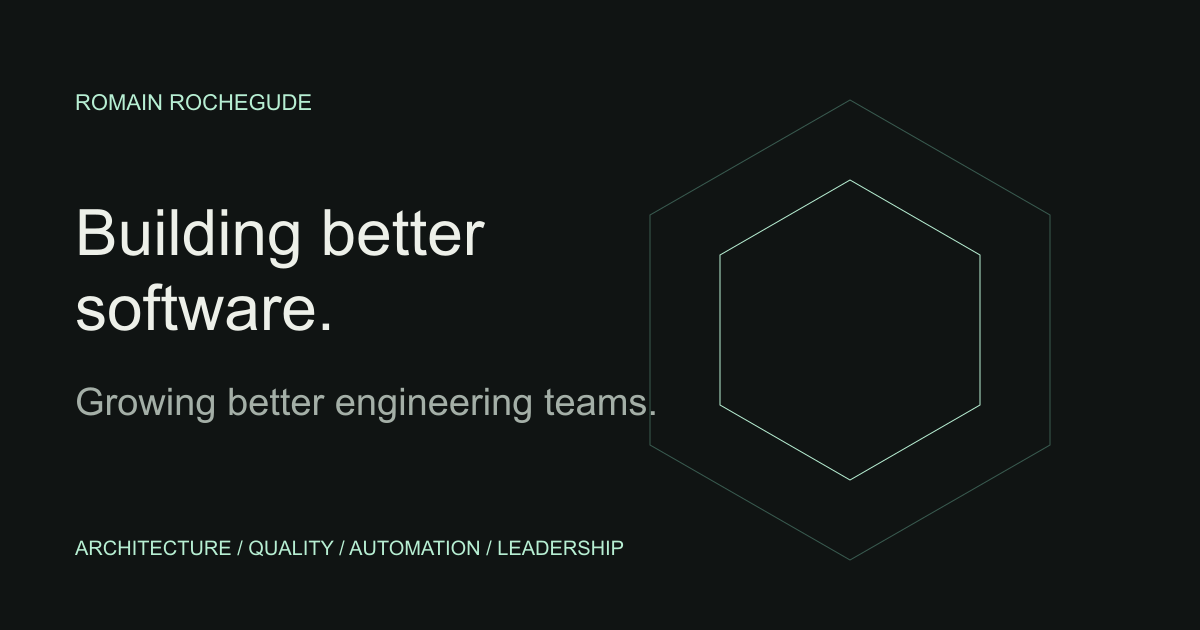
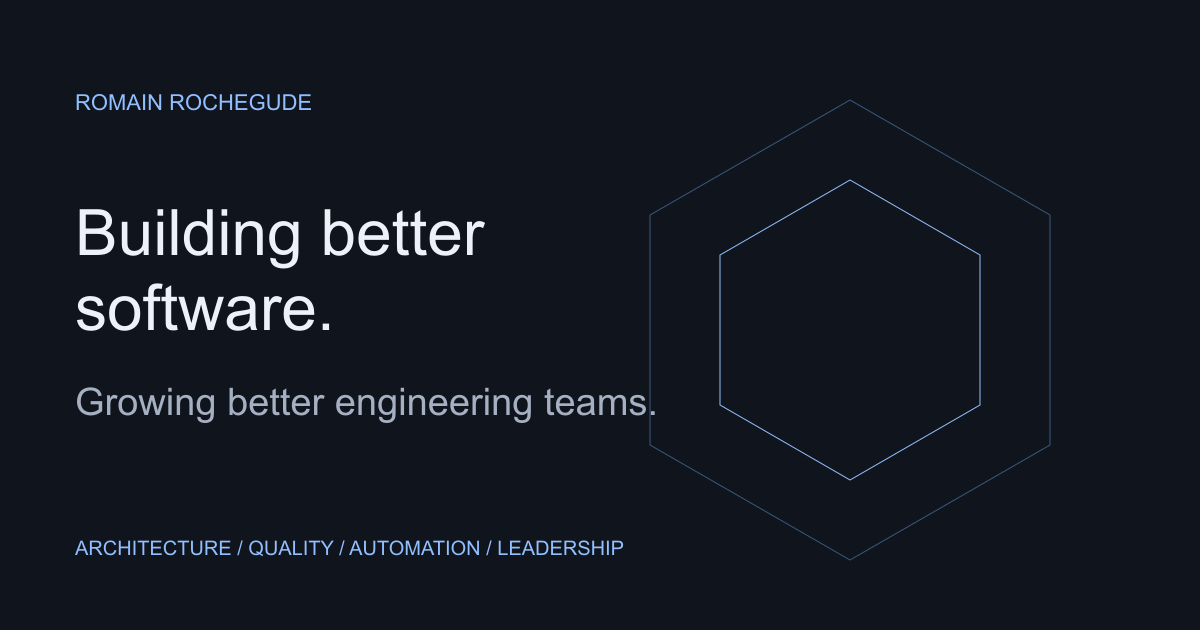
:lipstick: change colors to blue

diff --git a/src/styles/global.css b/src/styles/global.css
@@ -1,11 +1,11 @@
 :root {
   color-scheme: dark;
-  --bg: #101413;
-  --panel: #171d1a;
-  --text: #edf0e9;
-  --muted: #a4afa7;
-  --accent: #b7efd3;
-  --line: #303a34;
+  --bg: #10141c;
+  --panel: #171e2a;
+  --text: #edf2fa;
+  --muted: #a5b0c2;
+  --accent: #91bfff;
+  --line: #2d3a50;
   font-family: 'Roboto Variable', Roboto, Arial, sans-serif;
   font-synthesis: none;
   text-rendering: optimizeLegibility;
@@ -82,7 +82,7 @@ h3 {
   color: var(--accent);
 }
 .muted-heading {
-  color: #a4afa7;
+  color: #a5b0c2;
 }
 .eyebrow {
   font-size: 0.69rem;
@@ -112,7 +112,7 @@ h3 {
 .monogram {
   font-size: 2.5rem;
   font-weight: 400;
-  border: 1px solid #53675b;
+  border: 1px solid #526b91;
   width: 50px;
   height: 50px;
   display: flex;
@@ -127,7 +127,7 @@ h3 {
   display: flex;
   gap: 28px;
   font-size: 0.78rem;
-  color: #bec6bf;
+  color: #bdc9dc;
 }
 .site-header nav a {
   padding: 12px 0;
@@ -185,15 +185,15 @@ h3 {
   display: inline-flex;
   gap: 36px;
   background: var(--accent);
-  color: #14251d;
+  color: #10233e;
   padding: 14px 21px;
   font-size: 0.8rem;
   font-weight: 600;
   border: 1px solid var(--accent);
 }
 .button:hover {
-  background: #d2ffe6;
-  color: #14251d;
+  background: #bfd9ff;
+  color: #10233e;
 }
 .text-link {
   font-size: 0.8rem;
@@ -203,7 +203,7 @@ h3 {
   align-items: center;
 }
 .hero-art {
-  background: radial-gradient(ellipse at center, #23352b55, transparent 70%);
+  background: radial-gradient(ellipse at center, #233d6355, transparent 70%);
   border: 1px solid var(--line);
   padding: 24px 28px;
   position: relative;
@@ -213,8 +213,8 @@ h3 {
   position: absolute;
   inset: 0;
   background-image:
-    linear-gradient(#849a8b08 1px, transparent 1px),
-    linear-gradient(90deg, #849a8b08 1px, transparent 1px);
+    linear-gradient(#84a5d408 1px, transparent 1px),
+    linear-gradient(90deg, #84a5d408 1px, transparent 1px);
   background-size: 24px 24px;
   pointer-events: none;
 }
@@ -285,7 +285,7 @@ h3 {
 }
 .item-number {
   font-size: 0.65rem;
-  color: #8ea294;
+  color: #8ea6c9;
   font-family: monospace;
   letter-spacing: 0.08em;
 }
@@ -357,7 +357,7 @@ h3 {
   border: 1px solid var(--line);
   padding: 3px 9px;
   font-size: 0.6rem;
-  color: #bec9c1;
+  color: #bdcce2;
   overflow-wrap: anywhere;
 }
 .empty-state {
@@ -473,10 +473,10 @@ h3 {
 .filters a[aria-current] {
   background: var(--accent);
   border-color: var(--accent);
-  color: #14251d;
+  color: #10233e;
 }
 .filters a[aria-current] span {
-  color: #304d3d;
+  color: #304d74;
 }
 .project-detail {
   padding-block: 65px;
@@ -565,9 +565,9 @@ h3 {
   align-items: center;
 }
 .book-cover {
-  background: #20382b;
-  border: 1px solid #668873;
-  box-shadow: 14px 14px 0 #080d0a;
+  background: #203858;
+  border: 1px solid #6688b8;
+  box-shadow: 14px 14px 0 #080e18;
   padding: 30px;
   aspect-ratio: 0.72;
   display: flex;
@@ -650,7 +650,7 @@ h3 {
 }
 .prose p,
 .prose li {
-  color: #bec9c1;
+  color: #bdcce2;
   line-height: 1.9;
 }
 .prose a {
@@ -670,8 +670,8 @@ h3 {
   font-size: 0.85em;
 }
 .prose :not(pre) > code {
-  background: #223128;
-  color: #c7efda;
+  background: #22334d;
+  color: #c7dfff;
   padding: 2px 5px;
 }
 .prose blockquote {
